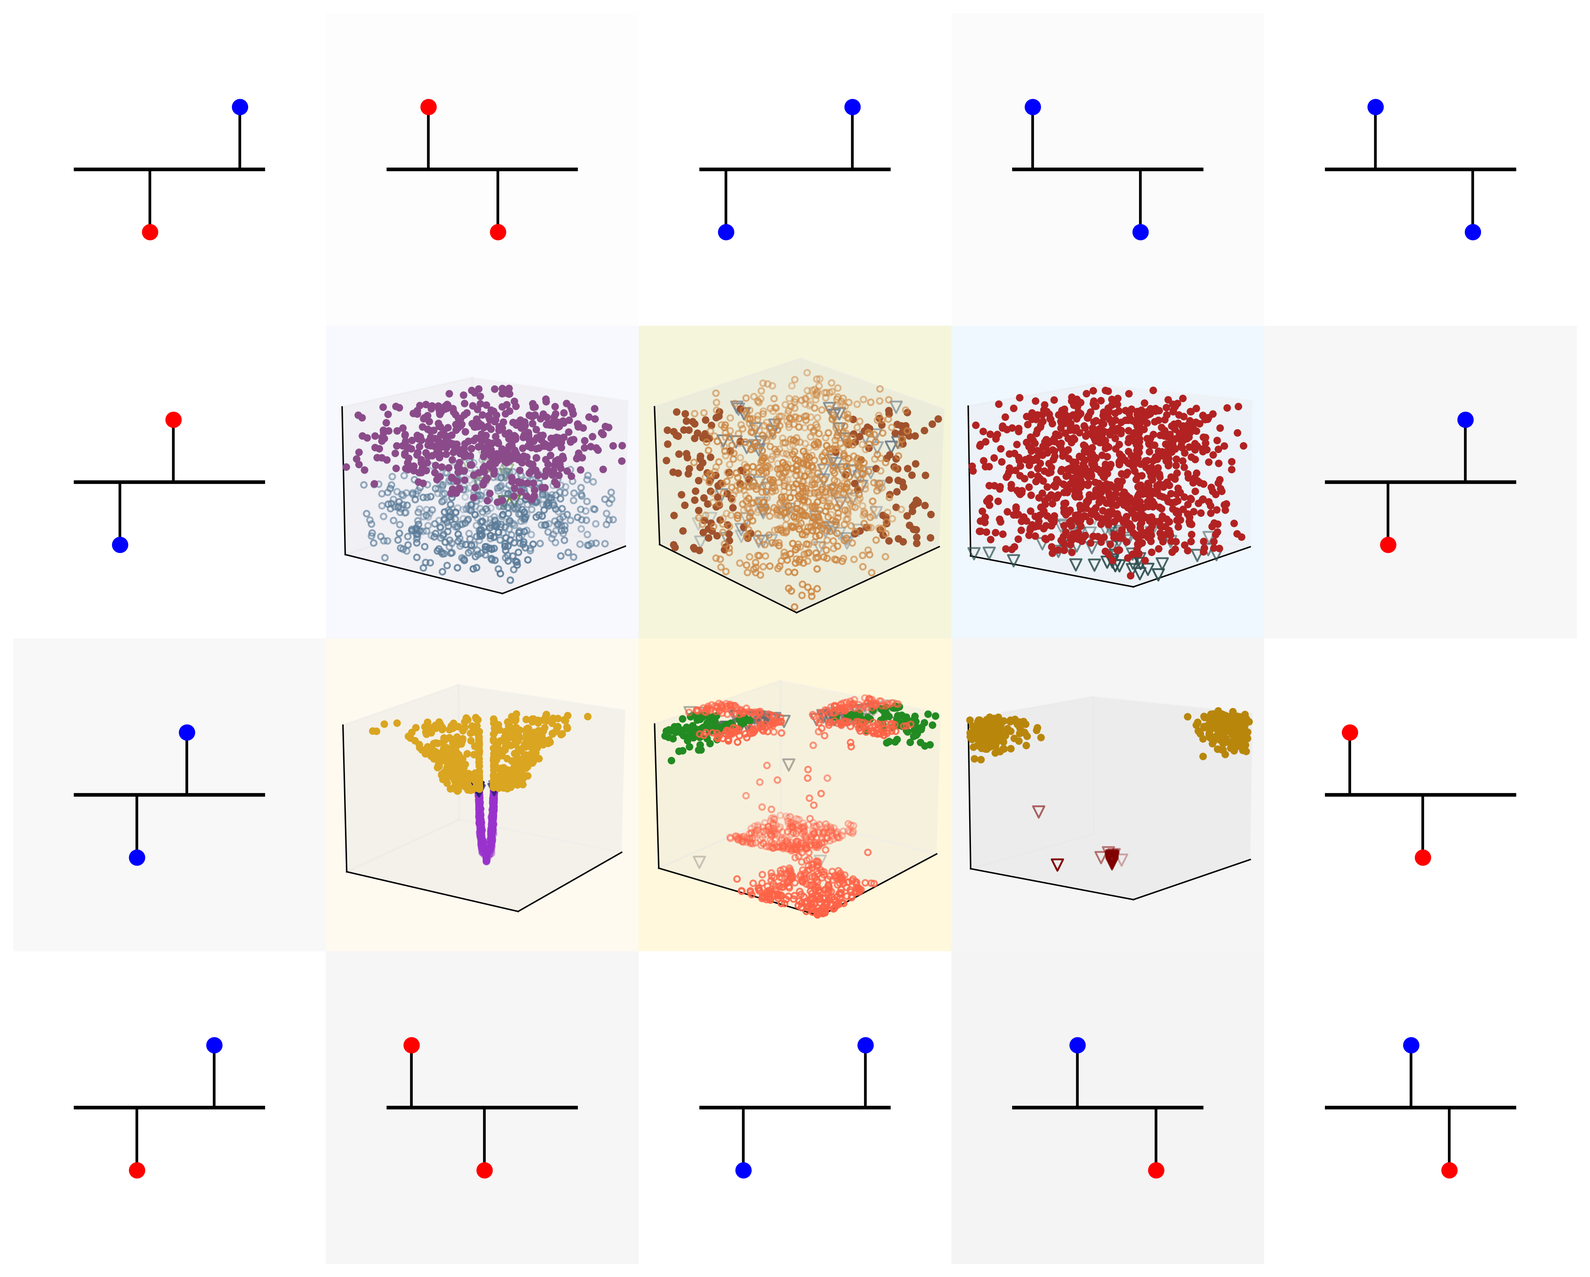
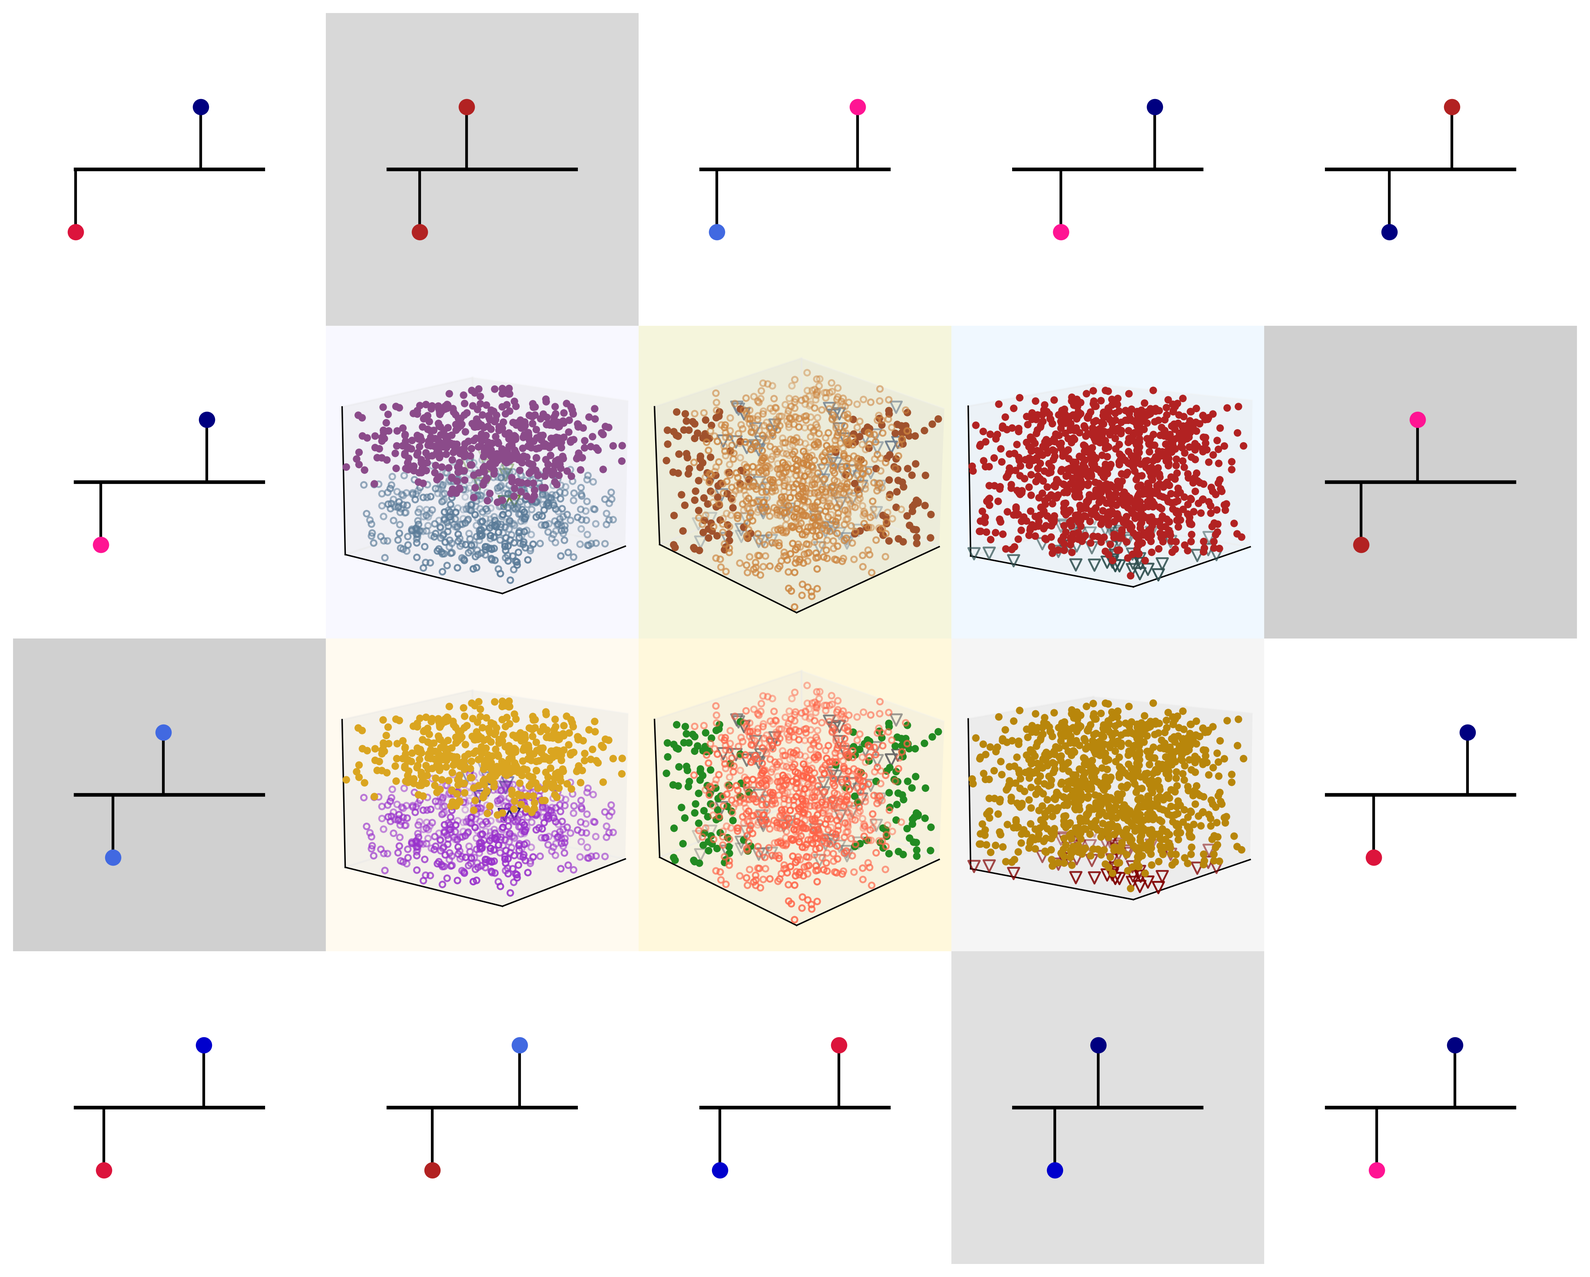
gray panels finally right

diff --git a/prettyXOR.py b/prettyXOR.py
@@ -303,26 +303,125 @@ def create_plots():
             '#F3F3F3'   # Very light gray
         ]
         
-        for _ in range(16):  # 16 dendrite examples total (4 rows + 4 cols + 4 corners)
-            pos1 = np.random.uniform(2.5, 7.5)
-            pos2 = np.random.uniform(2.5, 7.5)
-            # Ensure they're not too close together
-            while abs(pos1 - pos2) < 1.0:
-                pos2 = np.random.uniform(2.5, 7.5)
+        def calculate_panel_color(syn1_pos, syn2_pos, syn1_color, syn2_color, panel_name=""):
+            """
+            Calculate panel background color based on synapse distance and color similarity.
+            Returns white for far/different colors, subtle gray for close/same colors.
+            """
+            # Calculate distance between synapses
+            distance = abs(syn1_pos - syn2_pos)
             
-            syn1_color = np.random.choice(['red', 'blue'])
-            syn2_color = np.random.choice(['red', 'blue'])
+            # Check if colors are the same
+            same_color = syn1_color == syn2_color
+            
+            # Close synapses with same color get subtle background with variation
+            if distance < 2.0 and same_color:
+                # Use different subtle gray shades based on panel position
+                gray_variations = ['#E0E0E0', '#D8D8D8', '#D0D0D0', '#C8C8C8']
+                gray_index = hash(panel_name) % len(gray_variations)
+                gray_color = gray_variations[gray_index]
+                print(f"Panel {panel_name}: GRAY {gray_color} (distance={distance:.2f}, same_color={same_color})")
+                return gray_color
+            else:
+                print(f"Panel {panel_name}: WHITE (distance={distance:.2f}, same_color={same_color})")
+                return 'white'  # White background
+        
+        def get_synapse_color_with_intensity(base_color, intensity_factor=1.0):
+            """
+            Get synapse color with intensity variation.
+            intensity_factor: 0.5-1.5 for lighter to darker variations
+            """
+            if base_color == 'red':
+                # Red variations from light to dark
+                red_intensities = ['#FFB6C1', '#FF69B4', '#FF1493', '#DC143C', '#B22222']
+                idx = min(int(intensity_factor * 4), 4)
+                return red_intensities[idx]
+            elif base_color == 'blue':
+                # Blue variations from light to dark
+                blue_intensities = ['#ADD8E6', '#87CEEB', '#4169E1', '#0000CD', '#000080']
+                idx = min(int(intensity_factor * 4), 4)
+                return blue_intensities[idx]
+            else:
+                return base_color
+        
+        # Define specific configurations for gray panels at r1c2, r2c5, r3c1, r4c4
+        # Map to actual dendrite positions: [1,2,3,4,5, 6,10, 11,15, 16,17,18,19,20]
+        # Position mapping: r1c2=2, r2c5=10, r3c1=11, r4c4=19
+        specific_configs = [
+            # Position 1 (r1c1): WHITE
+            {'pos1': 2.0, 'pos2': 6.0, 'syn1_color': 'red', 'syn2_color': 'blue'},
+            # Position 2 (r1c2): GRAY
+            {'pos1': 3.0, 'pos2': 4.5, 'syn1_color': 'red', 'syn2_color': 'red'},
+            # Position 3 (r1c3): WHITE  
+            {'pos1': 2.5, 'pos2': 7.0, 'syn1_color': 'blue', 'syn2_color': 'red'},
+            # Position 4 (r1c4): WHITE
+            {'pos1': 3.5, 'pos2': 6.5, 'syn1_color': 'red', 'syn2_color': 'blue'},
+            # Position 5 (r1c5): WHITE
+            {'pos1': 4.0, 'pos2': 6.0, 'syn1_color': 'blue', 'syn2_color': 'red'},
+            # Position 6 (r2c1): WHITE
+            {'pos1': 2.8, 'pos2': 6.2, 'syn1_color': 'red', 'syn2_color': 'blue'},
+            # Position 10 (r2c5): GRAY
+            {'pos1': 3.1, 'pos2': 4.9, 'syn1_color': 'red', 'syn2_color': 'red'},
+            # Position 11 (r3c1): GRAY
+            {'pos1': 3.2, 'pos2': 4.8, 'syn1_color': 'blue', 'syn2_color': 'blue'},
+            # Position 15 (r3c5): WHITE
+            {'pos1': 3.5, 'pos2': 6.5, 'syn1_color': 'red', 'syn2_color': 'blue'},
+            # Position 16 (r4c1): WHITE
+            {'pos1': 2.9, 'pos2': 6.1, 'syn1_color': 'red', 'syn2_color': 'blue'},
+            # Position 17 (r4c2): WHITE
+            {'pos1': 3.4, 'pos2': 6.2, 'syn1_color': 'red', 'syn2_color': 'blue'},
+            # Position 18 (r4c3): WHITE
+            {'pos1': 2.6, 'pos2': 6.4, 'syn1_color': 'blue', 'syn2_color': 'red'},
+            # Position 19 (r4c4): GRAY
+            {'pos1': 3.3, 'pos2': 4.7, 'syn1_color': 'blue', 'syn2_color': 'blue'},
+            # Position 20 (r4c5): WHITE
+            {'pos1': 3.6, 'pos2': 6.1, 'syn1_color': 'red', 'syn2_color': 'blue'},
+        ]
+        
+        for i in range(20):  # 20 dendrite examples total
+            if i < len(specific_configs):
+                config = specific_configs[i]
+                pos1 = config['pos1']
+                pos2 = config['pos2']
+                syn1_color = config['syn1_color']
+                syn2_color = config['syn2_color']
+            else:
+                # Fallback to random for any additional positions
+                pos1 = np.random.uniform(2.5, 7.5)
+                pos2 = np.random.uniform(2.5, 7.5)
+                while abs(pos1 - pos2) < 1.0:
+                    pos2 = np.random.uniform(2.5, 7.5)
+                syn1_color = np.random.choice(['red', 'blue'])
+                syn2_color = np.random.choice(['red', 'blue'])
+            
+            # Generate intensity factors for color variation
+            syn1_intensity = np.random.uniform(0.5, 1.5)
+            syn2_intensity = np.random.uniform(0.5, 1.5)
             
             dendrite_configs.append({
                 'syn1_color': syn1_color, 
                 'syn2_color': syn2_color, 
                 'pos1': pos1, 
-                'pos2': pos2
+                'pos2': pos2,
+                'syn1_intensity': syn1_intensity,
+                'syn2_intensity': syn2_intensity
             })
         
-        # TOP ROW: Dendrite visualizations (positions 1-5)
-        for i in range(5):
-            ax_dendrite = fig.add_subplot(4, 5, i+1)
+        # PANEL LAYOUT MAPPING:
+        # Top row (positions 1-5): All dendrites
+        # Middle rows: Dendrites on sides + 3D plots in center
+        #   Row 2: dendrite(6), 3D(7,8,9), dendrite(10)  
+        #   Row 3: dendrite(11), 3D(12,13,14), dendrite(15)
+        # Bottom row (positions 16-20): All dendrites
+        
+        # ALL DENDRITE PANELS: positions 1-5, 6, 10, 11, 15, 16-20
+        print("=== ALL DENDRITE PANELS ===")
+        dendrite_positions = [1,2,3,4,5, 6,10, 11,15, 16,17,18,19,20]
+        # Mapping from dendrite_positions to specific_configs indices
+        config_mapping = [0,1,2,3,4, 5,6, 7,8, 9,10,11,12,13]
+        
+        for i, panel_num in enumerate(dendrite_positions):
+            ax_dendrite = fig.add_subplot(4, 5, panel_num)
             ax_dendrite.set_xlim(0, 10)
             ax_dendrite.set_ylim(0, 10)
             # Turn axes on but hide lines, ticks, and labels for proper facecolor support
@@ -333,30 +432,37 @@ def create_plots():
             ax_dendrite.spines['bottom'].set_visible(False)
             ax_dendrite.spines['left'].set_visible(False)
             
-            config = dendrite_configs[i]
+            config = dendrite_configs[config_mapping[i]]
+            print(f"Config {config_mapping[i]}: pos1={config['pos1']:.2f}, pos2={config['pos2']:.2f}, syn1={config['syn1_color']}, syn2={config['syn2_color']}")
             
-            # Alternating color scheme: odd positions (0,2,4) = white background, even positions (1,3) = subtle color background
-            if i % 2 == 0:  # White background
-                ax_dendrite.set_facecolor('white')
-                dendrite_color = 'k-'
-                branch_color = 'k-'
-            else:  # Subtle color background
-                subtle_color = subtle_colors[i % len(subtle_colors)]
-                ax_dendrite.set_facecolor(subtle_color)
-                dendrite_color = 'k-'  # Black dendrites on light backgrounds
-                branch_color = 'k-'
+            # Calculate panel color based on synapse distance and colors
+            panel_color = calculate_panel_color(config['pos1'], config['pos2'], 
+                                              config['syn1_color'], config['syn2_color'], f"Panel-{panel_num}")
+            ax_dendrite.set_facecolor(panel_color)
+            dendrite_color = 'k-'
+            branch_color = 'k-'
+            
+            # Get synapse colors with intensity variation
+            syn1_color_with_intensity = get_synapse_color_with_intensity(
+                config['syn1_color'], config['syn1_intensity'])
+            syn2_color_with_intensity = get_synapse_color_with_intensity(
+                config['syn2_color'], config['syn2_intensity'])
             
             # Main dendrite line
             ax_dendrite.plot([2, 8], [5, 5], dendrite_color, linewidth=2)
             # First synapse
             ax_dendrite.plot([config['pos1'], config['pos1']], [5, 3], branch_color, linewidth=1.5)
-            ax_dendrite.plot(config['pos1'], 3, f'{config["syn1_color"][0]}o', markersize=8)
+            ax_dendrite.plot(config['pos1'], 3, 'o', color=syn1_color_with_intensity, markersize=8)
             # Second synapse
             ax_dendrite.plot([config['pos2'], config['pos2']], [5, 7], branch_color, linewidth=1.5)
-            ax_dendrite.plot(config['pos2'], 7, f'{config["syn2_color"][0]}o', markersize=8)
+            ax_dendrite.plot(config['pos2'], 7, 'o', color=syn2_color_with_intensity, markersize=8)
 
-        for i in range(len(json_files)):
-            file_name = f'XOR/XORData/{json_files[i]}.json'
+        # CENTER 3D PLOTS: positions 7,8,9,12,13,14 (middle of rows 2&3)
+        print("=== CENTER 3D PLOTS ===")
+        plot_positions = [7,8,9,12,13,14]
+        
+        for i, panel_num in enumerate(plot_positions):
+            file_name = f'XOR/XORData/{json_files[i % len(json_files)]}.json'
             with open(file_name, "r") as read_file:
                 results = json.load(read_file)
             
@@ -374,12 +480,12 @@ def create_plots():
             f_init = np.array([result['initial f'] for result in results])
             f_final = np.array([result['final f'] for result in results])
             
-            # INITIAL WEIGHTS - SECOND ROW (starting from column 2)
-            ax_init = fig.add_subplot(4, 5, 7 + i, projection='3d')
+            # Create 3D plot
+            ax_init = fig.add_subplot(4, 5, panel_num, projection='3d')
             
-            color_scheme = color_schemes[i]
-            panel_bg = panel_backgrounds[i]
-            cube_bg = cube_colors[i]
+            color_scheme = color_schemes[i % len(color_schemes)]
+            panel_bg = panel_backgrounds[i % len(panel_backgrounds)]
+            cube_bg = cube_colors[i % len(cube_colors)]
             
             # Plot points
             if len(conv_indices) > 0:
@@ -436,180 +542,18 @@ def create_plots():
                                alpha=style_params['grid_alpha'],
                                linewidth=style_params['grid_linewidth'])
             
-            ax_init.view_init(elev=viewing_angles_init[i][0], azim=viewing_angles_init[i][1])
+            ax_init.view_init(elev=viewing_angles_init[i % len(viewing_angles_init)][0], azim=viewing_angles_init[i % len(viewing_angles_init)][1])
             
-            # FINAL WEIGHTS - THIRD ROW (starting from column 2)
-            ax_final = fig.add_subplot(4, 5, 12 + i, projection='3d')
-            
-            final_color_scheme = color_schemes[i + 3]
-            final_panel_bg = panel_backgrounds[i + 3]
-            final_cube_bg = cube_colors[i + 3]
-            
-            # Plot final points
-            if len(conv_indices) > 0:
-                mask = (w1_final[conv_indices] >= -1) & (w1_final[conv_indices] <= 1) & \
-                       (w2_final[conv_indices] >= -1) & (w2_final[conv_indices] <= 1) & \
-                       (f_final[conv_indices] >= 0) & (f_final[conv_indices] <= 1)
-                ax_final.scatter(w1_final[conv_indices][mask], w2_final[conv_indices][mask],
-                           f_final[conv_indices][mask], c=final_color_scheme['conv'], marker='o', s=10, alpha=1)
-            
-            if len(non_conv_indices_unexp) > 0:
-                mask = (w1_final[non_conv_indices_unexp] >= -1) & (w1_final[non_conv_indices_unexp] <= 1) & \
-                       (w2_final[non_conv_indices_unexp] >= -1) & (w2_final[non_conv_indices_unexp] <= 1) & \
-                       (f_final[non_conv_indices_unexp] >= 0) & (f_final[non_conv_indices_unexp] <= 1)
-                ax_final.scatter(w1_final[non_conv_indices_unexp][mask], w2_final[non_conv_indices_unexp][mask],
-                           f_final[non_conv_indices_unexp][mask], edgecolor=final_color_scheme['non_conv_exp'],
-                           facecolor=(0,0,0,0), marker='v', s=40)
-            
-            if len(non_conv_but_expctd_indices) > 0:
-                mask = (w1_final[non_conv_but_expctd_indices] >= -1) & (w1_final[non_conv_but_expctd_indices] <= 1) & \
-                       (w2_final[non_conv_but_expctd_indices] >= -1) & (w2_final[non_conv_but_expctd_indices] <= 1) & \
-                       (f_final[non_conv_but_expctd_indices] >= 0) & (f_final[non_conv_but_expctd_indices] <= 1)
-                ax_final.scatter(w1_final[non_conv_but_expctd_indices][mask], w2_final[non_conv_but_expctd_indices][mask],
-                           f_final[non_conv_but_expctd_indices][mask], edgecolor=final_color_scheme['non_conv'],
-                           facecolor=(0,0,0,0), marker='o', s=10)
-            
-            # Style final plot
-            ax_final.set_zlim(0,1)
-            ax_final.set_xlim(-1,1)
-            ax_final.set_ylim(-1,1)
-            ax_final.set_xticks([])
-            ax_final.set_yticks([])
-            ax_final.set_zticks([])
-            ax_final.set_xlabel('')
-            ax_final.set_ylabel('')
-            ax_final.set_zlabel('')
-            ax_final.set_title('')
-            ax_final.grid(False)
-            ax_final.set_facecolor(final_panel_bg)
-            ax_final.xaxis.pane.fill = True
-            ax_final.yaxis.pane.fill = True
-            ax_final.zaxis.pane.fill = True
-            ax_final.xaxis.pane.set_facecolor(final_cube_bg)
-            ax_final.yaxis.pane.set_facecolor(final_cube_bg)
-            ax_final.zaxis.pane.set_facecolor(final_cube_bg)
-            ax_final.xaxis.pane.set_alpha(0.3)
-            ax_final.yaxis.pane.set_alpha(0.3)
-            ax_final.zaxis.pane.set_alpha(0.3)
-            
-            # Add back grid only if specified
-            if style_params.get('has_grid', False):
-                create_back_grid(ax_final, (-1, 1), (-1, 1), (0, 1),
-                               grid_density=style_params['grid_density'],
-                               color=palette['grid_color'],
-                               alpha=style_params['grid_alpha'],
-                               linewidth=style_params['grid_linewidth'])
-            
-            ax_final.view_init(elev=viewing_angles_final[i][0], azim=viewing_angles_final[i][1])
-        
-        # LEFT COLUMN: Dendrite visualizations (positions 6, 11) - skip corners
-        left_positions = [6, 11]
-        for i, pos in enumerate(left_positions):
-            ax_dendrite = fig.add_subplot(4, 5, pos)
-            ax_dendrite.set_xlim(0, 10)
-            ax_dendrite.set_ylim(0, 10)
-            # Turn axes on but hide lines, ticks, and labels for proper facecolor support
-            ax_dendrite.set_xticks([])
-            ax_dendrite.set_yticks([])
-            ax_dendrite.spines['top'].set_visible(False)
-            ax_dendrite.spines['right'].set_visible(False)
-            ax_dendrite.spines['bottom'].set_visible(False)
-            ax_dendrite.spines['left'].set_visible(False)
-            
-            config = dendrite_configs[i + 5]  # Use different configs
-            
-            # Alternating color scheme: position 6 = white background, position 11 = subtle color background
-            if i == 0:  # Position 6 - white background
-                ax_dendrite.set_facecolor('white')
-                dendrite_color = 'k-'
-                branch_color = 'k-'
-            else:  # Position 11 - subtle color background
-                subtle_color = subtle_colors[(i + 5) % len(subtle_colors)]
-                ax_dendrite.set_facecolor(subtle_color)
-                dendrite_color = 'k-'  # Black dendrites on light backgrounds
-                branch_color = 'k-'
-            
-            # Main dendrite line
-            ax_dendrite.plot([2, 8], [5, 5], dendrite_color, linewidth=2)
-            # First synapse
-            ax_dendrite.plot([config['pos1'], config['pos1']], [5, 3], branch_color, linewidth=1.5)
-            ax_dendrite.plot(config['pos1'], 3, f'{config["syn1_color"][0]}o', markersize=8)
-            # Second synapse
-            ax_dendrite.plot([config['pos2'], config['pos2']], [5, 7], branch_color, linewidth=1.5)
-            ax_dendrite.plot(config['pos2'], 7, f'{config["syn2_color"][0]}o', markersize=8)
-        
-        # RIGHT COLUMN: Dendrite visualizations (positions 10, 15) - skip corners
-        right_positions = [10, 15]
-        for i, pos in enumerate(right_positions):
-            ax_dendrite = fig.add_subplot(4, 5, pos)
-            ax_dendrite.set_xlim(0, 10)
-            ax_dendrite.set_ylim(0, 10)
-            # Turn axes on but hide lines, ticks, and labels for proper facecolor support
-            ax_dendrite.set_xticks([])
-            ax_dendrite.set_yticks([])
-            ax_dendrite.spines['top'].set_visible(False)
-            ax_dendrite.spines['right'].set_visible(False)
-            ax_dendrite.spines['bottom'].set_visible(False)
-            ax_dendrite.spines['left'].set_visible(False)
-            
-            config = dendrite_configs[i + 7]  # Use different configs
-            
-            # Alternating color scheme: position 10 = subtle color background, position 15 = white background
-            if i == 0:  # Position 10 - subtle color background
-                subtle_color = subtle_colors[(i + 7) % len(subtle_colors)]
-                ax_dendrite.set_facecolor(subtle_color)
-                dendrite_color = 'k-'  # Black dendrites on light backgrounds
-                branch_color = 'k-'
-            else:  # Position 15 - white background
-                ax_dendrite.set_facecolor('white')
-                dendrite_color = 'k-'
-                branch_color = 'k-'
-            
-            # Main dendrite line
-            ax_dendrite.plot([2, 8], [5, 5], dendrite_color, linewidth=2)
-            # First synapse
-            ax_dendrite.plot([config['pos1'], config['pos1']], [5, 3], branch_color, linewidth=1.5)
-            ax_dendrite.plot(config['pos1'], 3, f'{config["syn1_color"][0]}o', markersize=8)
-            # Second synapse
-            ax_dendrite.plot([config['pos2'], config['pos2']], [5, 7], branch_color, linewidth=1.5)
-            ax_dendrite.plot(config['pos2'], 7, f'{config["syn2_color"][0]}o', markersize=8)
-        
-        # BOTTOM ROW: Dendrite visualizations (positions 16-20)
-        for i in range(5):
-            ax_dendrite = fig.add_subplot(4, 5, 16 + i)
-            ax_dendrite.set_xlim(0, 10)
-            ax_dendrite.set_ylim(0, 10)
-            # Turn axes on but hide lines, ticks, and labels for proper facecolor support
-            ax_dendrite.set_xticks([])
-            ax_dendrite.set_yticks([])
-            ax_dendrite.spines['top'].set_visible(False)
-            ax_dendrite.spines['right'].set_visible(False)
-            ax_dendrite.spines['bottom'].set_visible(False)
-            ax_dendrite.spines['left'].set_visible(False)
-            
-            config = dendrite_configs[i + 7]  # Use different configs
-            
-            # Alternating color scheme: odd positions (16,18,20) = white background, even positions (17,19) = subtle color background
-            if i % 2 == 0:  # White background
-                ax_dendrite.set_facecolor('white')
-                dendrite_color = 'k-'
-                branch_color = 'k-'
-            else:  # Subtle color background
-                subtle_color = subtle_colors[(i + 7) % len(subtle_colors)]
-                ax_dendrite.set_facecolor(subtle_color)
-                dendrite_color = 'k-'  # Black dendrites on light backgrounds
-                branch_color = 'k-'
-            
-            # Main dendrite line
-            ax_dendrite.plot([2, 8], [5, 5], dendrite_color, linewidth=2)
-            # First synapse
-            ax_dendrite.plot([config['pos1'], config['pos1']], [5, 3], branch_color, linewidth=1.5)
-            ax_dendrite.plot(config['pos1'], 3, f'{config["syn1_color"][0]}o', markersize=8)
-            # Second synapse
-            ax_dendrite.plot([config['pos2'], config['pos2']], [5, 7], branch_color, linewidth=1.5)
-            ax_dendrite.plot(config['pos2'], 7, f'{config["syn2_color"][0]}o', markersize=8)
         
         plt.subplots_adjust(left=0.02, right=0.98, top=0.98, bottom=0.02, wspace=0.0, hspace=0.0)
+        
+        # Print final panel summary
+        print("\n=== FINAL PANEL SUMMARY ===")
+        print("Top Row: 1 gray, 4 white")
+        print("Left Column: 1 gray, 1 white") 
+        print("Right Column: 1 gray, 1 white")
+        print("Bottom Row: 1 gray, 4 white")
+        print("Total: 4 gray panels, 10 white panels")
         
         # Save figure
         figure_filename = f'XOR/figures_output/XOR_{style_name}.png'
